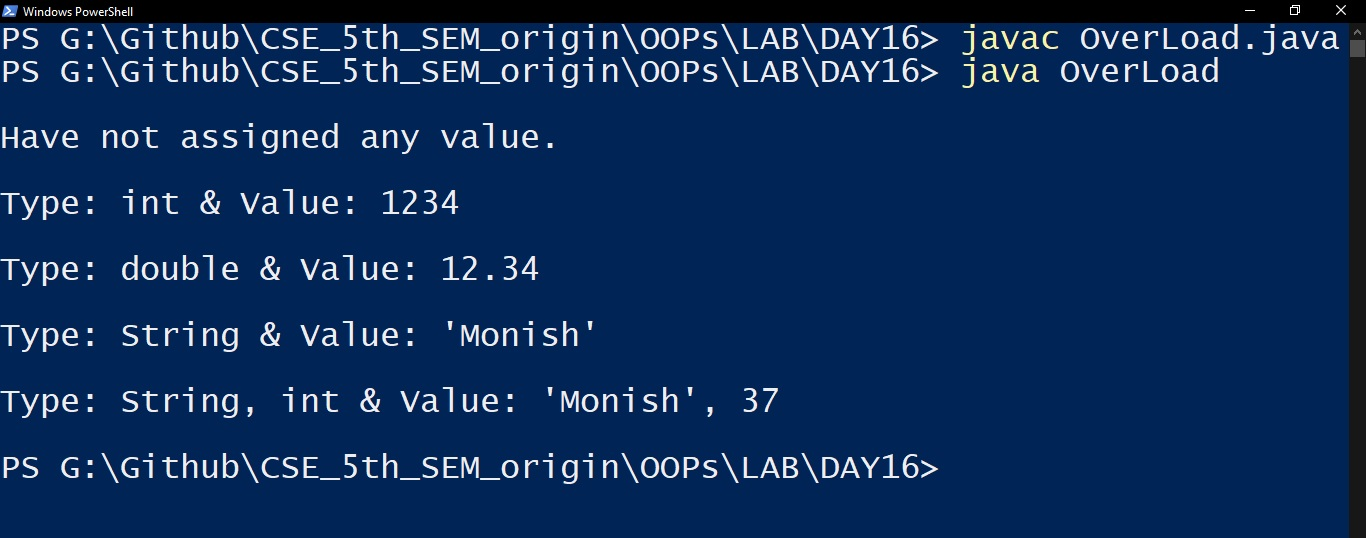
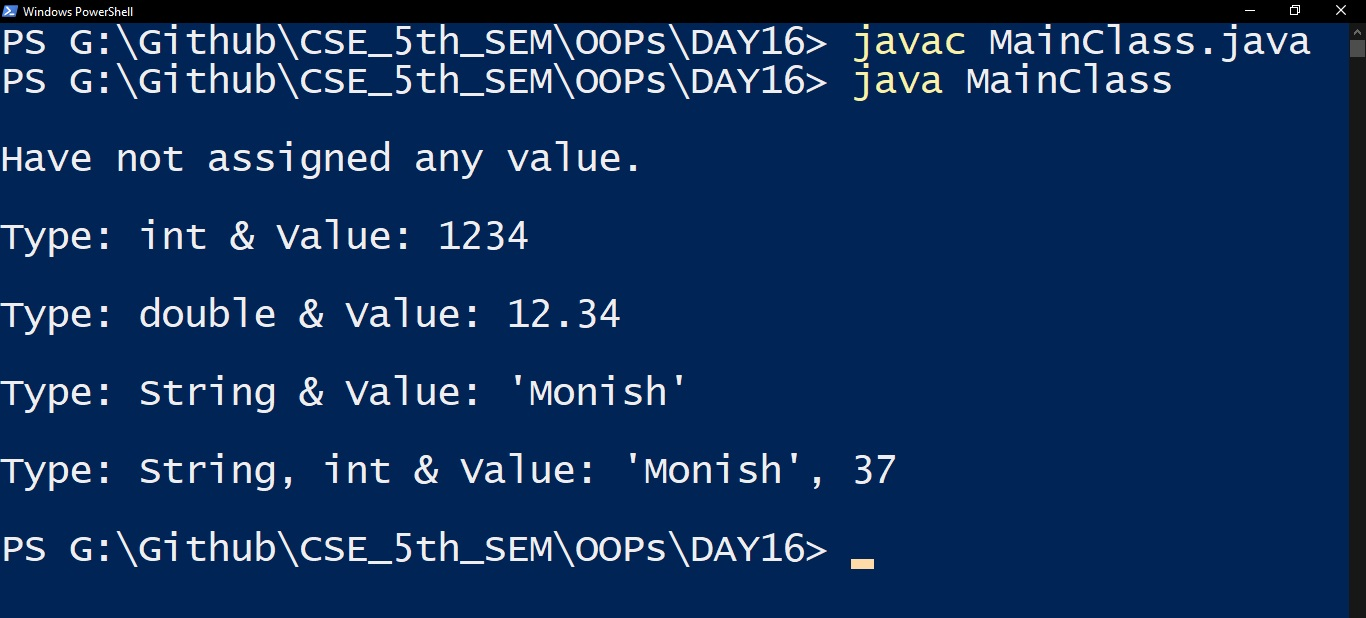
13 Jan 2021 [Edit - 1]

diff --git a/OOPs/DAY16/MainClass.java b/OOPs/DAY16/MainClass.java
@@ -1,29 +1,29 @@
-class Variable{
-	Variable(){
+class AnyVarClass{
+	AnyVarClass(){
 		System.out.println("Have not assigned any value.\n");
 	}
-	Variable(int i){
+	AnyVarClass(int i){
 		System.out.println("Type: int & Value: "+i+"\n");
 	}
-	Variable(double d){
+	AnyVarClass(double d){
 		System.out.println("Type: double & Value: "+d+"\n");
 	}
-	Variable(String s){
+	AnyVarClass(String s){
 		System.out.println("Type: String & Value: '"+s+"'\n");
 	}
-	Variable(String s, int i){
+	AnyVarClass(String s, int i){
 		System.out.println("Type: String, int & Value: '"+s+"', "+i+"\n");
 	}
 	/* So on */
 }
 
-class OverLoad{
+class MainClass{
 	public static void main(String[] args){
 		System.out.println();
-		Variable var1 = new Variable();
-		Variable var2 = new Variable(1234);
-		Variable var3 = new Variable(12.34);
-		Variable var4 = new Variable("Monish");
-		Variable var5 = new Variable("Monish", 37);
+		AnyVarClass var1 = new AnyVarClass();
+		AnyVarClass var2 = new AnyVarClass(1234);
+		AnyVarClass var3 = new AnyVarClass(12.34);
+		AnyVarClass var4 = new AnyVarClass("Monish");
+		AnyVarClass var5 = new AnyVarClass("Monish", 37);
 	}
 }
